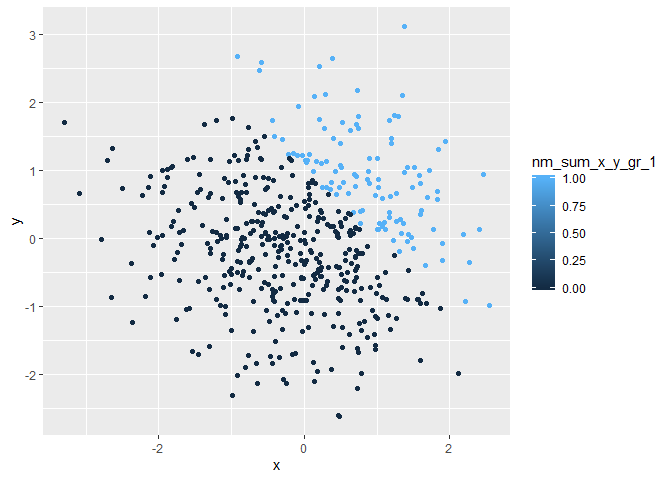
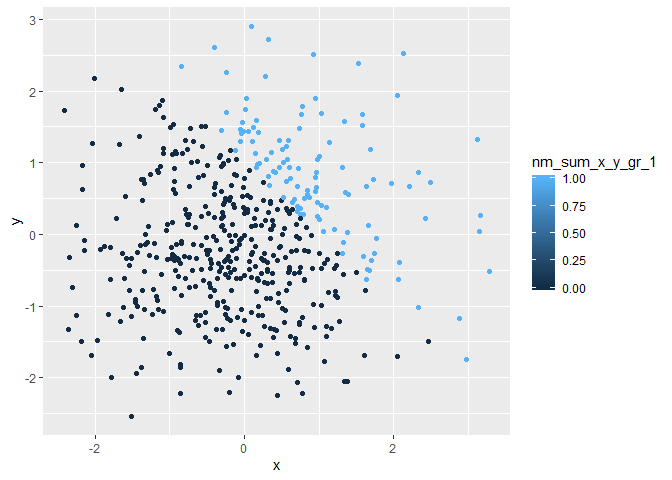
Clean up code

diff --git a/p8105_hw1_jfh2150.md b/p8105_hw1_jfh2150.md
@@ -48,7 +48,7 @@ df_problem_1 %>%
     ## # A tibble: 1 x 4
     ##   nm_random_sample lg_sample_gr_0 ch_vector ft_vector
     ##              <dbl>          <dbl>     <dbl>     <dbl>
-    ## 1         0.000195            0.5        NA        NA
+    ## 1           0.0372            0.5        NA        NA
 
 Applying the `as.numeric` function to the non-numeric variables in the
 data frame successfully converts all 3 vectors to numeric in my example.
@@ -73,7 +73,7 @@ conversions.
 ``` r
 # map as.numeric function to the logical, character, and factor variables
 df_problem_1 %>% 
-  select(-c(nm_random_sample)) %>% 
+  select(-nm_random_sample) %>% 
   map_df(as.numeric)
 ```
 
@@ -99,8 +99,8 @@ nm_random_sample = df_problem_1 %>%
 nm_converted_vector * nm_random_sample
 ```
 
-    ## [1] 0.796652811 0.000000000 0.000000000 0.605616761 0.002771289 1.013639646
-    ## [7] 0.000000000 0.000000000
+    ## [1] 0.000000000 0.449525345 0.000000000 1.889426169 0.000000000 0.000000000
+    ## [7] 0.008197868 1.331829767
 
 ``` r
 # (b)
@@ -128,8 +128,8 @@ nm_reconverted_vector = ft_converted_vector %>%
 nm_reconverted_vector * nm_random_sample
 ```
 
-    ## [1]  1.593305622 -0.590345692 -0.666530248  1.211233523  0.005542577
-    ## [6]  2.027279292 -0.237314601 -0.922927315
+    ## [1] -0.44185185  0.89905069 -0.55993850  3.77885234 -1.19415631 -1.18537578
+    ## [7]  0.01639574  2.66365953
 
 ## Problem 2
 
@@ -150,8 +150,8 @@ and the second two were created by coercing that vector to numeric and
 factor types.
 
 The data frame is thus comprised of 500 rows and 5 columns. Column `x`
-has a mean of -0.0643036, a median of -0.0026686, and standard deviation
-of 1.0195463. The proportion of cases where `x + y > 1` is 0.224.
+has a mean of -0.0192103, a median of -0.0321449, and standard deviation
+of 1.0150887. The proportion of cases where `x + y > 1` is 0.226.
 
 The scatterplots displayed below show `x` plotted against `y`. In each
 plot, the points are colored by one of the three indicators.
